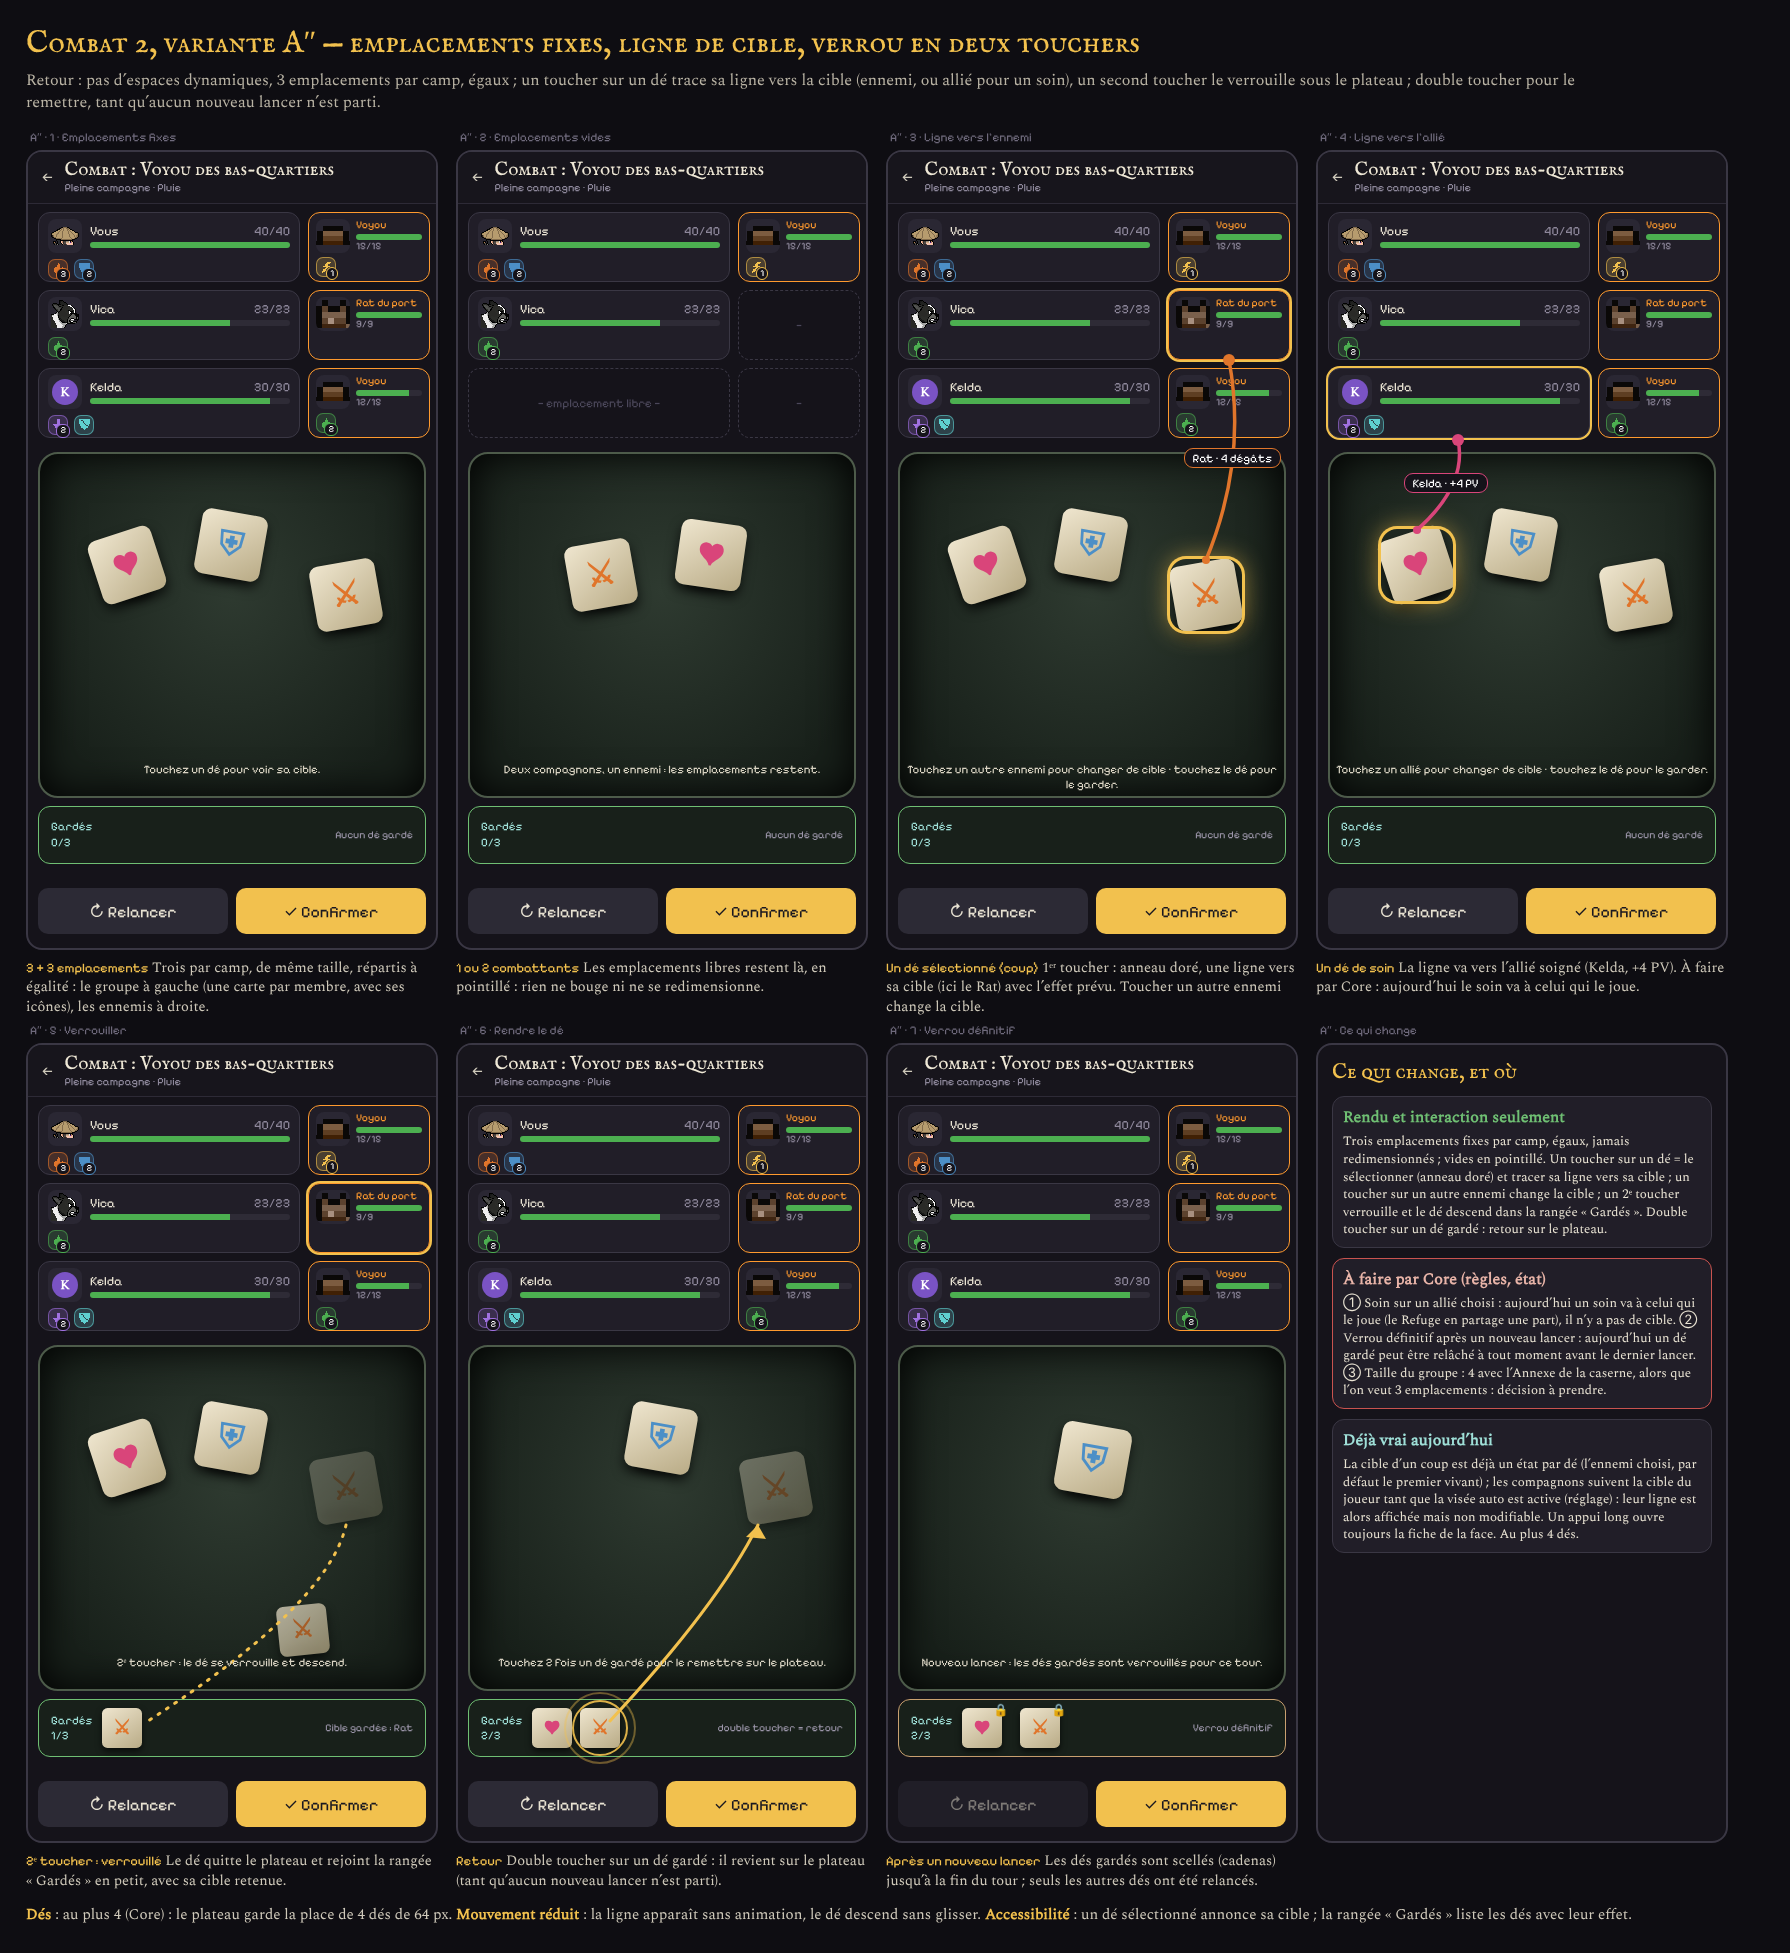
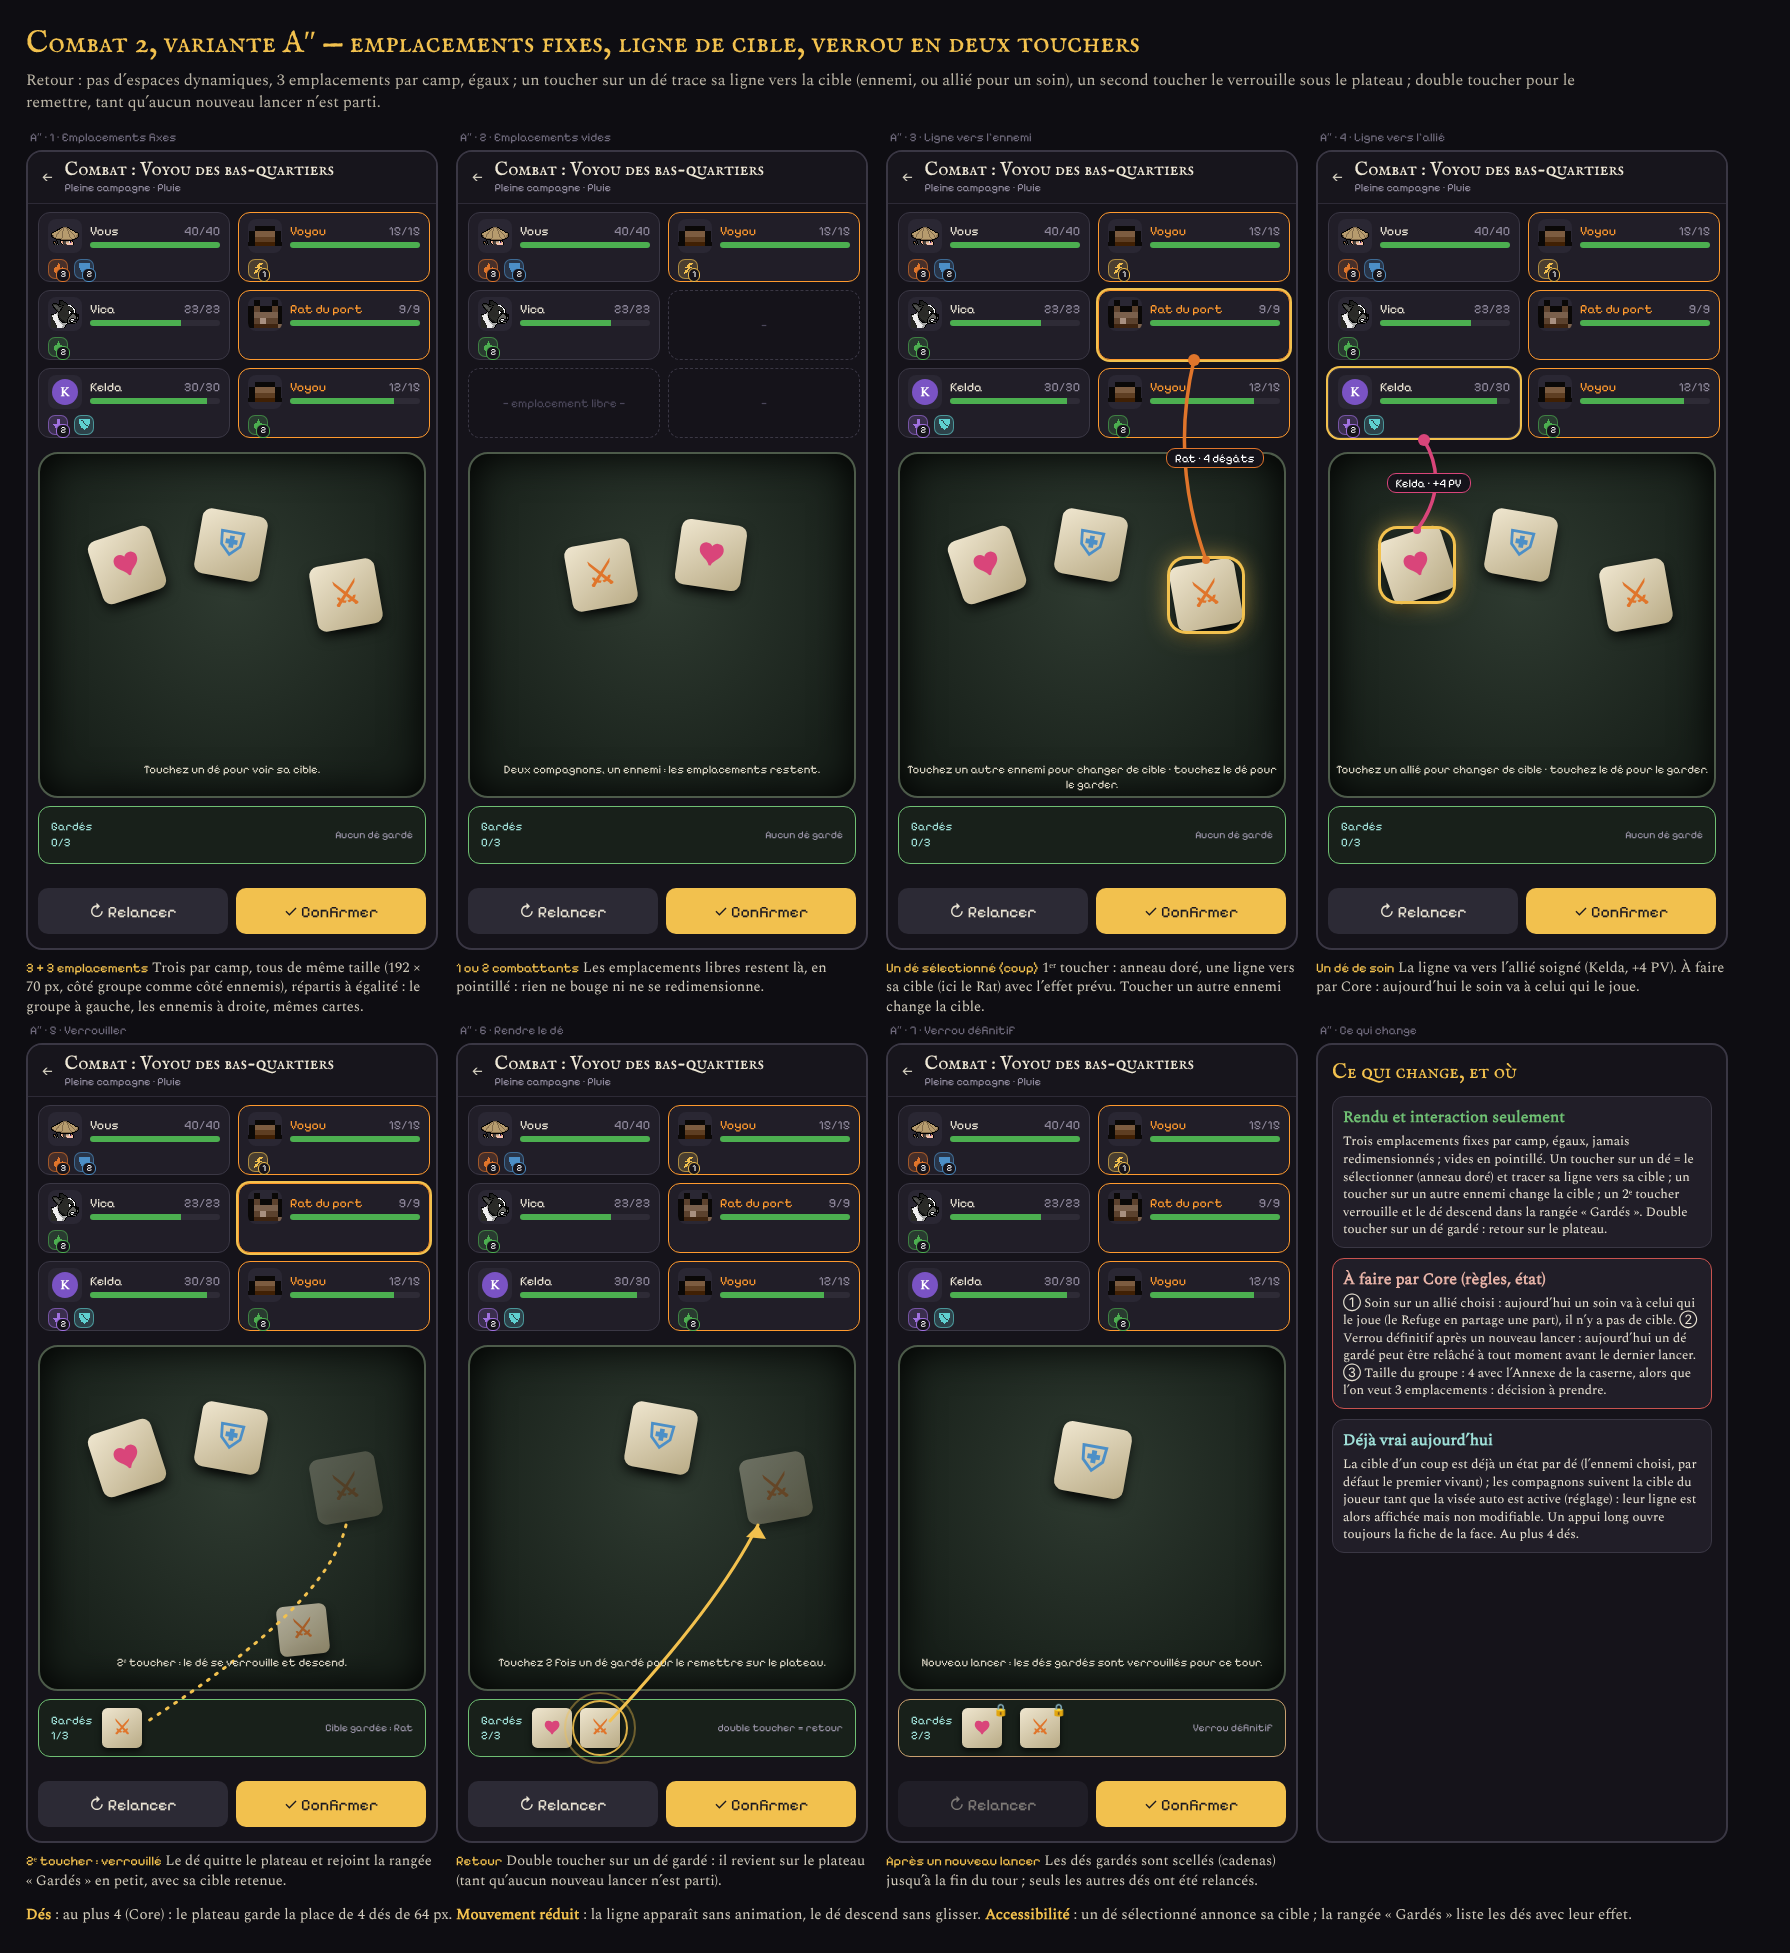
Combat design 2, A'': enemy and party blocks the same size (picture)
Claude-Session: https://claude.ai/code/session_019ETFw2Y7wpHSXWG5mmACty

diff --git a/docs/proposals/combat-design-2-variants.md b/docs/proposals/combat-design-2-variants.md
@@ -44,7 +44,7 @@ open on Vica's poison, the icon legend); the 8 icons (9 x 9 pixel, one colour ea
 User feedback: no dynamic spaces; max 3 per side, equal blocks; tap a die: a line to its target (an
 enemy, or an ally for a heal); tap again to lock it (it drops small below the board); a locked die
 returns to the board with a double tap until a new roll is triggered, then the lock is final.
-Picture: `docs/ux-shots/combat2/variant-A3-fixed-slots-targeting.png` (3+3 slots; 2 allies vs 1
+Picture: `docs/ux-shots/combat2/variant-A3-fixed-slots-targeting.png` (3+3 slots, all six the same size, 192 x 70 px, the enemy blocks identical to the party blocks; 2 allies vs 1
 enemy with empty slots; a strike die with its line; a heal die with its line to an ally; the second
 tap; the double-tap return; the sealed locks after a new roll).
 
